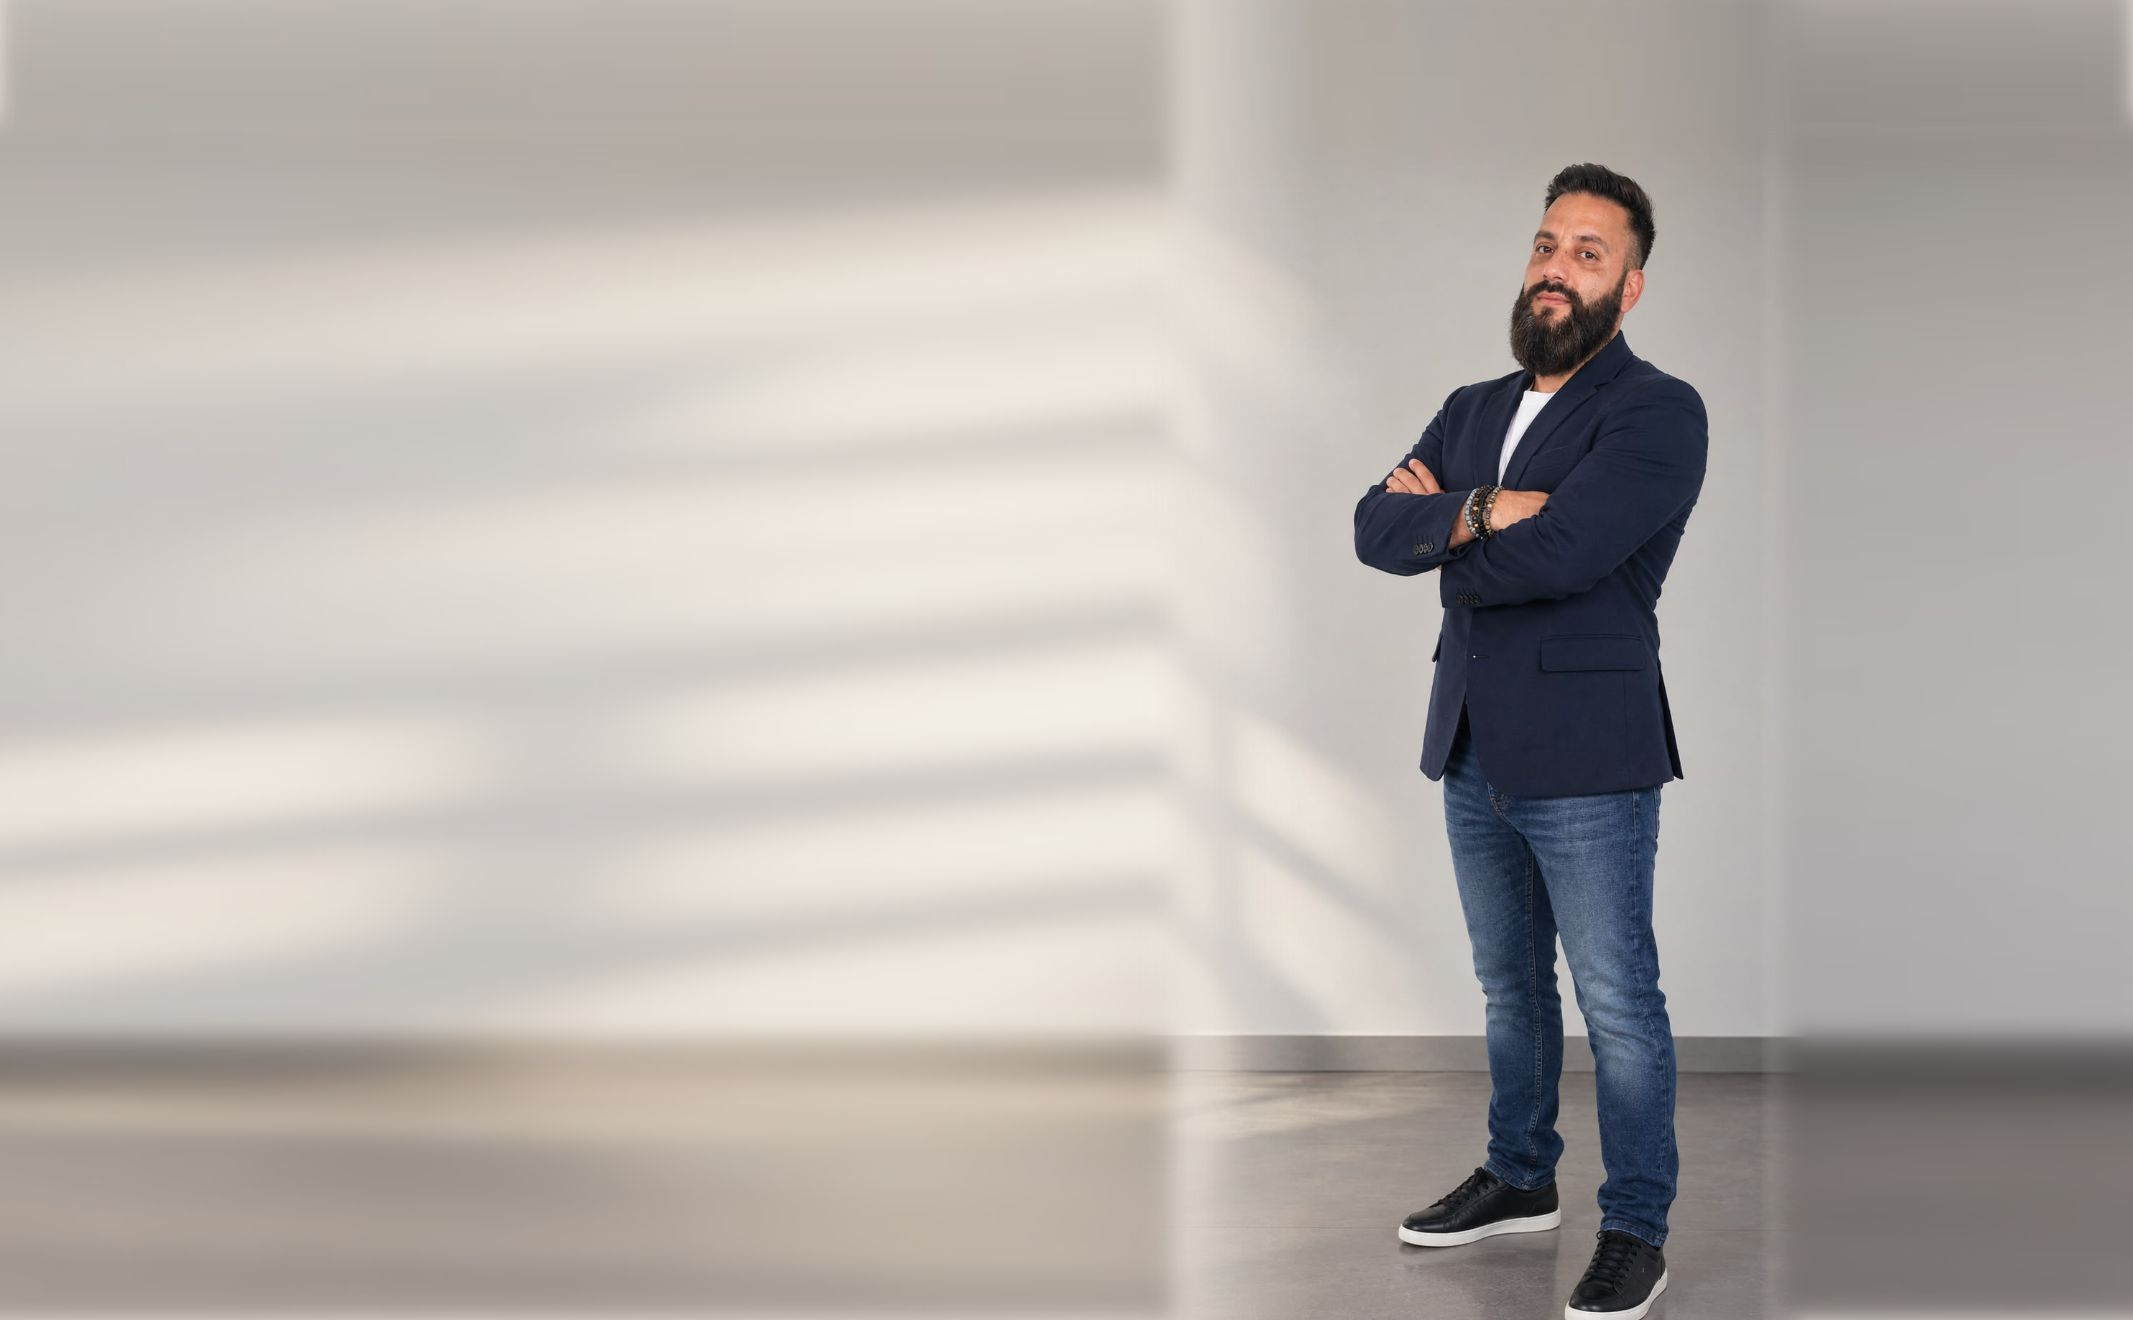
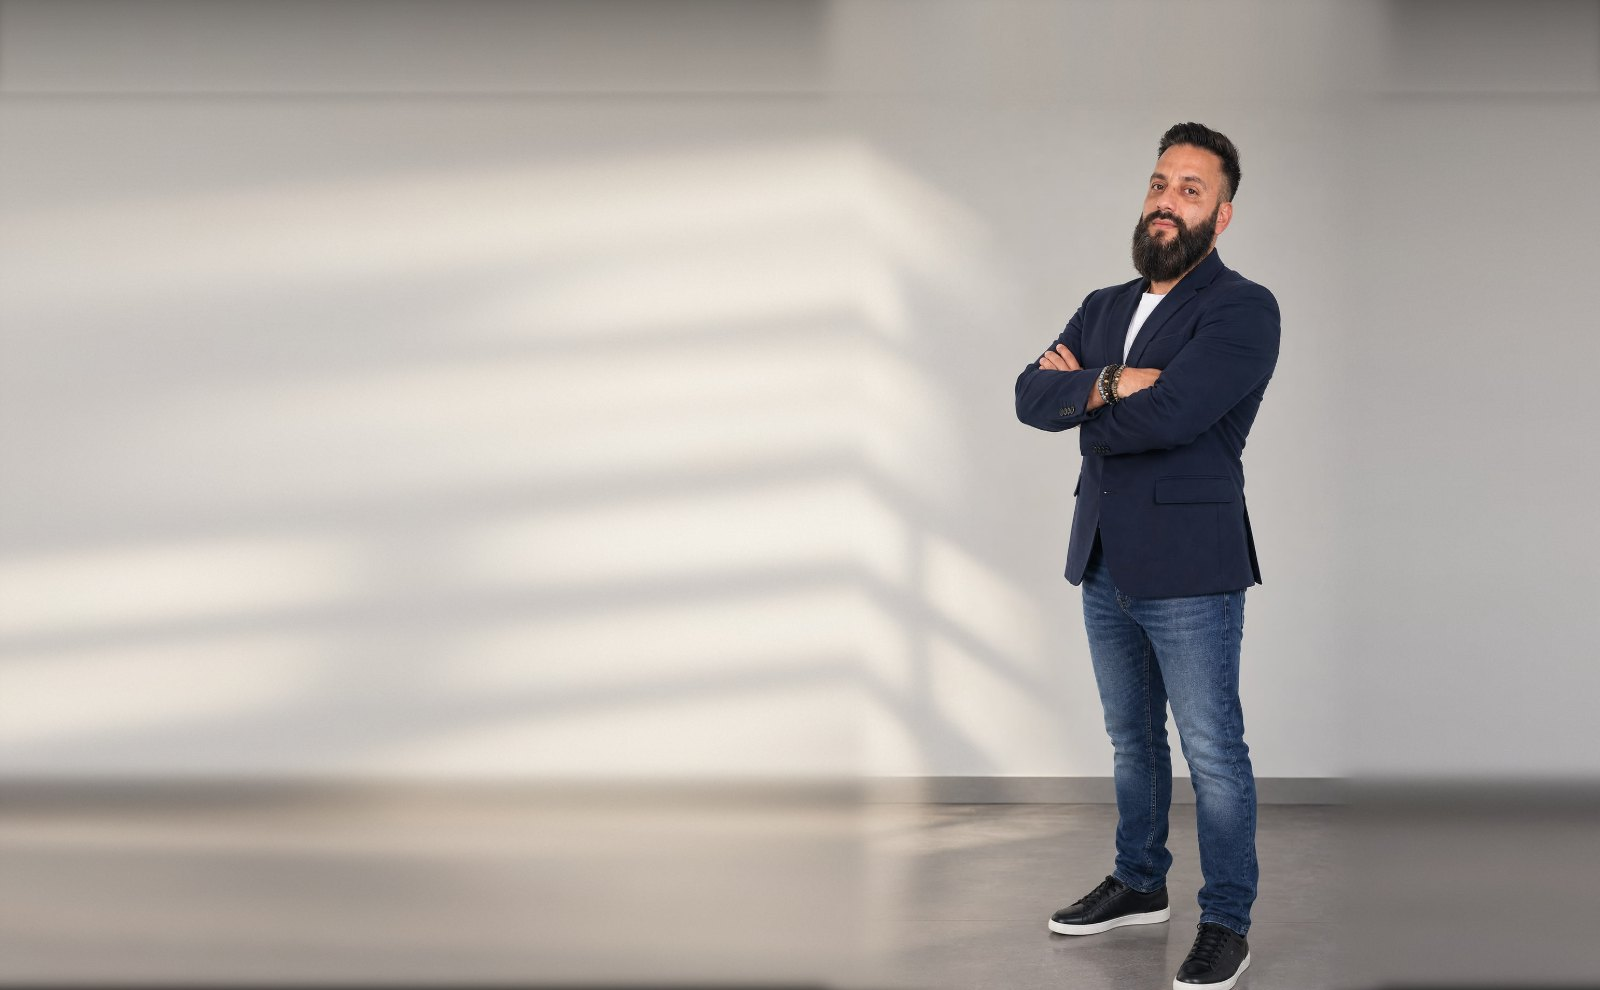
Portada: foto de Jesús a resolución nativa, dos tamaños, enfoque y fundido en azul noche

diff --git a/index.html b/index.html
@@ -12,8 +12,8 @@
 <meta property="og:description" content="Reformas y construcción de obra nueva en el Maresme, la Selva y el área de Barcelona. Visita y presupuesto sin compromiso.">
 <meta property="og:url" content="https://reformasfonseca.com/">
 <meta property="og:image" content="https://reformasfonseca.com/assets/img/hero-jesus.jpg">
-<meta property="og:image:width" content="2133">
-<meta property="og:image:height" content="1320">
+<meta property="og:image:width" content="1600">
+<meta property="og:image:height" content="990">
 <meta name="twitter:card" content="summary_large_image">
 <link rel="canonical" href="https://reformasfonseca.com/">
 <meta property="og:locale" content="es_ES">
@@ -23,9 +23,9 @@
 <link rel="preload" as="font" type="font/woff2" href="assets/fonts/jost.woff2" crossorigin>
 <link rel="preload" as="font" type="font/woff2" href="assets/fonts/noto-serif-display.woff2" crossorigin>
 
-<link rel="preload" as="image" href="assets/img/jesus.webp" type="image/webp" fetchpriority="high" media="(max-width: 959px)">
-<link rel="preload" as="image" href="assets/img/hero-jesus.webp" type="image/webp" fetchpriority="high" media="(min-width: 960px)">
-<link rel="stylesheet" href="styles.css?v=20261028">
+<link rel="preload" as="image" href="assets/img/hero-jesus-movil.webp" type="image/webp" fetchpriority="high" media="(max-width: 959px)">
+<link rel="preload" as="image" imagesrcset="assets/img/hero-jesus-1600.webp 1600w, assets/img/hero-jesus-2970.webp 2970w" imagesizes="100vw" type="image/webp" fetchpriority="high" media="(min-width: 960px)">
+<link rel="stylesheet" href="styles.css?v=20261029">
 
 <link rel="apple-touch-icon" href="apple-touch-icon.png">
 <!-- La R y la S cambian de color con el tema del navegador: oscuras sobre
@@ -391,8 +391,8 @@
          pared prolongada a la izquierda para que el titular se lea encima; en
          móvil, el retrato vertical tal cual. -->
     <picture>
-      <source media="(max-width: 959px)" srcset="assets/img/jesus.webp" type="image/webp" width="941" height="1671">
-      <img class="hero__retrato" src="assets/img/hero-jesus.webp" alt="Jesús Fonseca, responsable de Reformas F.S Fonseca" width="2133" height="1320" fetchpriority="high" loading="eager">
+      <source media="(max-width: 959px)" srcset="assets/img/hero-jesus-movil.webp" type="image/webp" width="941" height="1671">
+      <img class="hero__retrato" src="assets/img/hero-jesus-1600.webp" srcset="assets/img/hero-jesus-1600.webp 1600w, assets/img/hero-jesus-2970.webp 2970w" sizes="100vw" alt="Jesús Fonseca, responsable de Reformas F.S Fonseca" width="2970" height="1838" fetchpriority="high" loading="eager" decoding="async">
     </picture>
   </div>
 
@@ -998,7 +998,7 @@
   <svg viewBox="0 0 24 24" aria-hidden="true"><path d="M12 2a10 10 0 00-8.6 15L2 22l5.2-1.4A10 10 0 1012 2zm0 18a8 8 0 01-4.1-1.1l-.3-.2-3 .8.8-2.9-.2-.3A8 8 0 1112 20zm4.4-5.8c-.2-.1-1.4-.7-1.6-.8s-.4-.1-.6.1-.6.8-.8 1-.3.2-.6.1a6.6 6.6 0 01-3.2-2.8c-.2-.4.2-.4.6-1.2.1-.2 0-.4 0-.5l-.8-1.8c-.2-.5-.4-.4-.6-.4h-.5a1 1 0 00-.7.3A2.9 2.9 0 006 8.4c0 1.7 1.2 3.3 1.4 3.5a11 11 0 004.2 3.7c1.5.6 2.1.7 2.9.5.5-.1 1.4-.6 1.6-1.2s.2-1 .1-1.1-.2-.2-.5-.3z"/></svg>
 </a>
 
-<script defer src="lib/manifest.js?v=20261028"></script>
-<script defer src="main.js?v=20261028"></script>
+<script defer src="lib/manifest.js?v=20261029"></script>
+<script defer src="main.js?v=20261029"></script>
 </body>
 </html>

diff --git a/styles.css b/styles.css
@@ -1475,14 +1475,17 @@ mark.falta { background: #e08a6f; color: #111a24; padding: 0 .3em; font-weight: 
 .hero__plate img.hero__retrato { filter: none; object-position: 70% 0; }
 .hero__plate::after {
   background:
-    linear-gradient(90deg, rgba(14,18,21,.9) 0%, rgba(14,18,21,.8) 34%, rgba(14,18,21,.34) 60%, rgba(14,18,21,.06) 80%),
-    linear-gradient(0deg, rgba(14,18,21,.55) 0%, rgba(14,18,21,0) 40%);
+    linear-gradient(90deg, rgba(10,17,25,.92) 0%, rgba(10,17,25,.82) 32%, rgba(10,17,25,.38) 58%, rgba(10,17,25,.1) 78%, rgba(10,17,25,.18) 100%),
+    linear-gradient(0deg, rgba(10,17,25,.85) 0%, rgba(10,17,25,.35) 16%, rgba(10,17,25,0) 38%),
+    linear-gradient(180deg, rgba(10,17,25,.35) 0%, rgba(10,17,25,0) 18%);
 }
 @media (max-width: 959px) {
   .hero__plate { top: calc(var(--hdr-h) + var(--hdr-top)); }
   .hero__plate img.hero__retrato { object-position: 50% 0; }
   .hero__plate::after {
-    background: linear-gradient(0deg, rgba(14,18,21,.94) 0%, rgba(14,18,21,.82) 38%, rgba(14,18,21,.3) 64%, rgba(14,18,21,.12) 100%);
+    background:
+      linear-gradient(0deg, rgba(10,17,25,.96) 0%, rgba(10,17,25,.84) 38%, rgba(10,17,25,.3) 64%, rgba(10,17,25,.14) 100%),
+      linear-gradient(180deg, rgba(10,17,25,.45) 0%, rgba(10,17,25,0) 12%);
   }
 }
 @media (min-width: 960px) {

diff --git a/404.html b/404.html
@@ -8,7 +8,7 @@
 <meta name="theme-color" content="#0e161f">
 <!-- Rutas absolutas: esta página puede servirse desde cualquier dirección. -->
 <link rel="preload" as="font" type="font/woff2" href="/assets/fonts/noto-serif-display.woff2" crossorigin>
-<link rel="stylesheet" href="/styles.css?v=20261028">
+<link rel="stylesheet" href="/styles.css?v=20261029">
 <link rel="icon" href="/assets/favicon.svg" type="image/svg+xml">
 <link rel="apple-touch-icon" href="/apple-touch-icon.png">
 </head>

diff --git a/aviso-legal.html b/aviso-legal.html
@@ -7,7 +7,7 @@
 <meta name="robots" content="noindex, follow">
 <link rel="canonical" href="https://reformasfonseca.com/aviso-legal.html">
 <meta name="theme-color" content="#0e161f">
-<link rel="stylesheet" href="styles.css?v=20261028">
+<link rel="stylesheet" href="styles.css?v=20261029">
 <link rel="icon" href="assets/favicon.svg" type="image/svg+xml">
 <link rel="apple-touch-icon" href="apple-touch-icon.png">
 </head>

diff --git a/privacidad.html b/privacidad.html
@@ -7,7 +7,7 @@
 <meta name="robots" content="noindex, follow">
 <link rel="canonical" href="https://reformasfonseca.com/privacidad.html">
 <meta name="theme-color" content="#0e161f">
-<link rel="stylesheet" href="styles.css?v=20261028">
+<link rel="stylesheet" href="styles.css?v=20261029">
 <link rel="icon" href="assets/favicon.svg" type="image/svg+xml">
 <link rel="apple-touch-icon" href="apple-touch-icon.png">
 </head>
